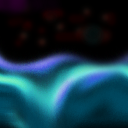
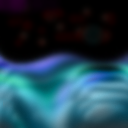
Much better colors and narrative for OrderParticles

diff --git a/src/order_particles.h b/src/order_particles.h
@@ -23,6 +23,7 @@ public:
 
     virtual void beginFrame(const FrameInfo &f);
     virtual void shader(Vec3& rgb, const PixelInfo& p) const;
+    virtual void debug(const DebugInfo &di);
 
     Texture palette;
     float vibration;
@@ -30,14 +31,14 @@ public:
     float colorCycle;
 
 private:
-    static const unsigned numParticles = 120;
-    static const float relativeSize = 0.18;
-    static const float intensity = 0.3;
+    static const unsigned numParticles = 180;
+    static const float relativeSize = 0.3;
+    static const float intensity = 0.06;
     static const float stepSize = 1.0 / 500;
     static const float seedRadius = 2.0;
-    static const float interactionSize = 0.2;
-    static const float angleGain = 0.01;
-    static const float colorRate = 0.2;
+    static const float interactionSize = 0.5;
+    static const float angleGain = 0.002;
+    static const float colorRate = 0.03;
 
     float timeDeltaRemainder;
 
@@ -51,7 +52,7 @@ private:
 
 
 inline OrderParticles::OrderParticles()
-    : palette("data/biology-palette.png"),
+    : palette("data/mars-palette.png"),
       timeDeltaRemainder(0)
 {
     reseed(42);
@@ -153,6 +154,13 @@ inline void OrderParticles::runStep(const FrameInfo &f)
             }
         }
     }
+}
+
+inline void OrderParticles::debug(const DebugInfo &di)
+{
+    fprintf(stderr, "\t[order-particles] symmetry = %d\n", symmetry);
+    fprintf(stderr, "\t[order-particles] vibration = %f\n", vibration);
+    fprintf(stderr, "\t[order-particles] colorCycle = %f\n", colorCycle);
 }
 
 inline void OrderParticles::shader(Vec3& rgb, const PixelInfo& p) const

diff --git a/src/narrator_script.cpp b/src/narrator_script.cpp
@@ -76,13 +76,12 @@ int Narrator::script(int st, PRNG &prng)
         case 50:
             // Biology happens, order emerges
             orderParticles.reseed(prng.uniform32());
-            orderParticles.vibration = 0.01;
-            orderParticles.symmetry = 8;
-            crossfade(&orderParticles, 4);
+            orderParticles.vibration = 0.001;
+            orderParticles.symmetry = 16;
+            crossfade(&orderParticles, 15);
             while (orderParticles.symmetry > 1) {
-                delay(10);
+                delay(prng.uniform(2, 15));
                 orderParticles.symmetry--;
-                orderParticles.vibration *= 0.5;
             }
             return 60;
 
@@ -90,7 +89,7 @@ int Narrator::script(int st, PRNG &prng)
             // Langton's ant
             ants.reseed(prng.uniform32());
             ants.stepSize = 0.5;
-            crossfade(&ants, 10);
+            crossfade(&ants, prng.uniform(10, 20));
             delay(prng.uniform(3, 6));
             ants.stepSize = 0.1;
             delay(prng.uniform(15, 45));
